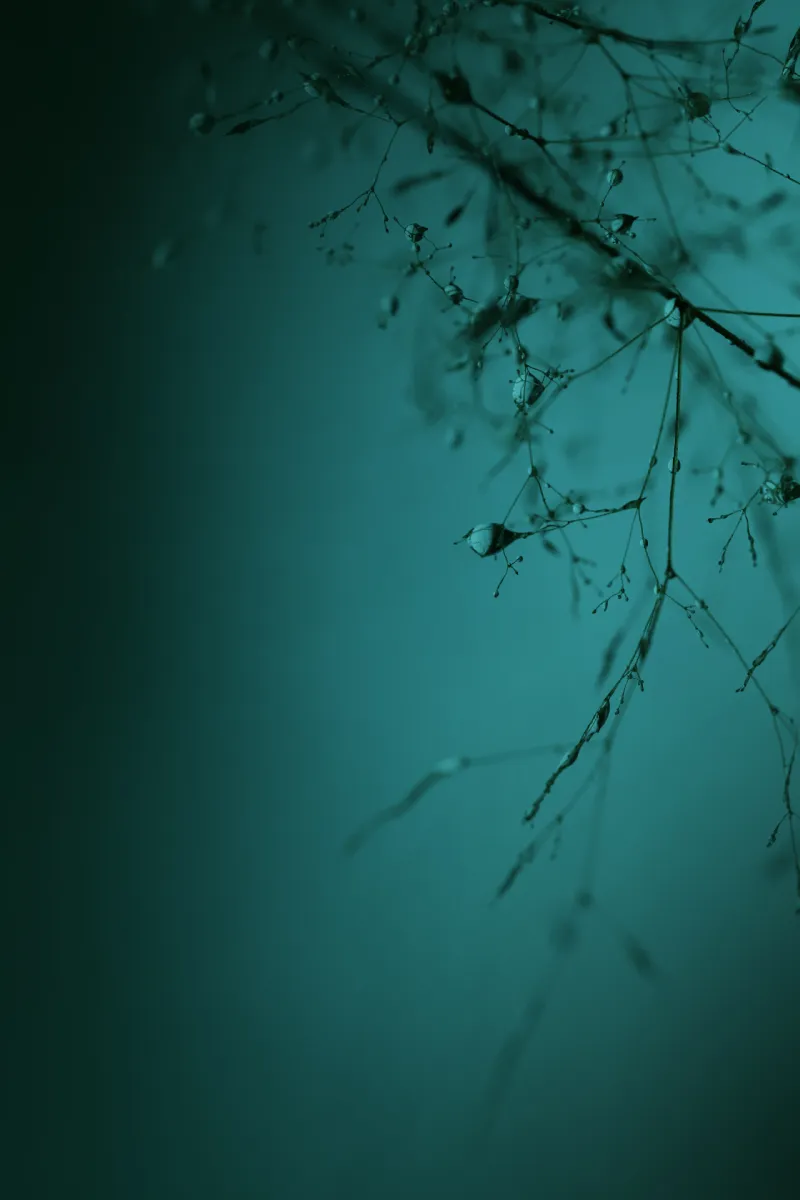
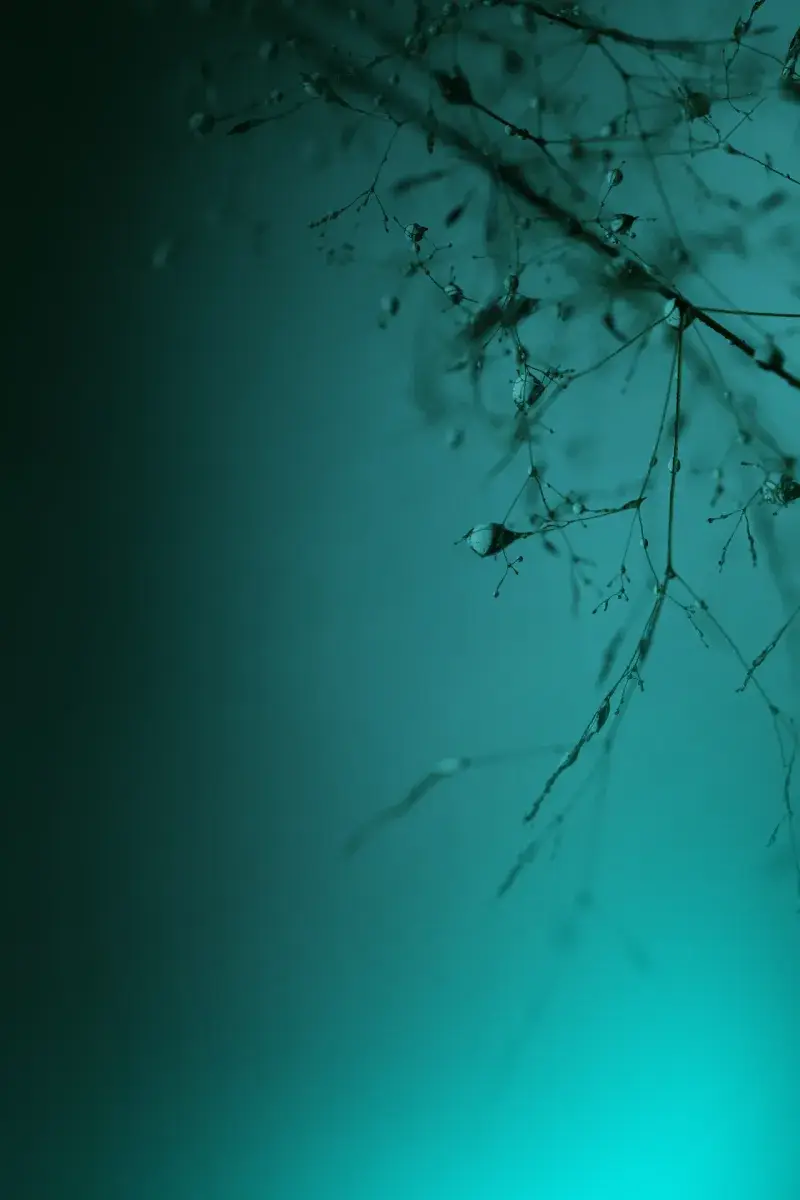
zmiana zdjec na mobile

Changed region(s): [[0.125, 0.5858, 1.0, 1.0], [0.7812, 0.5242, 0.8125, 0.5858], [0.9375, 0.5242, 0.9688, 0.555]]

diff --git a/css/style.css b/css/style.css
@@ -659,7 +659,7 @@ textarea:focus {
   }
 
   .hero-omnie {
-    background-image: url("../img/zdjecie-omnie-mobile2.webp");
+    background-image: url("../img/zdjecie-omnie-mobile2-900px.webp");
     background-color: rgba(0,0,0,0.0);
   }
 }
@@ -731,9 +731,9 @@ textarea:focus {
 
   .kicker { font-size: 0.8rem; }
 
-  .hero-content h1 { font-size: 2.0rem; }
+  .hero-content h1 { font-size: 2.5rem; }
   .hero-content .lead { font-size: 16px; line-height: 1.6; width: 90%; }
-  .hero-content .idea { font-size: 2.2rem; width: 90%; }
+  .hero-content .idea { font-size: 2.5rem; width: 90%; }
   .hero-content .first { font-size: 16px; width: 90%; }
 
   .row-between {
